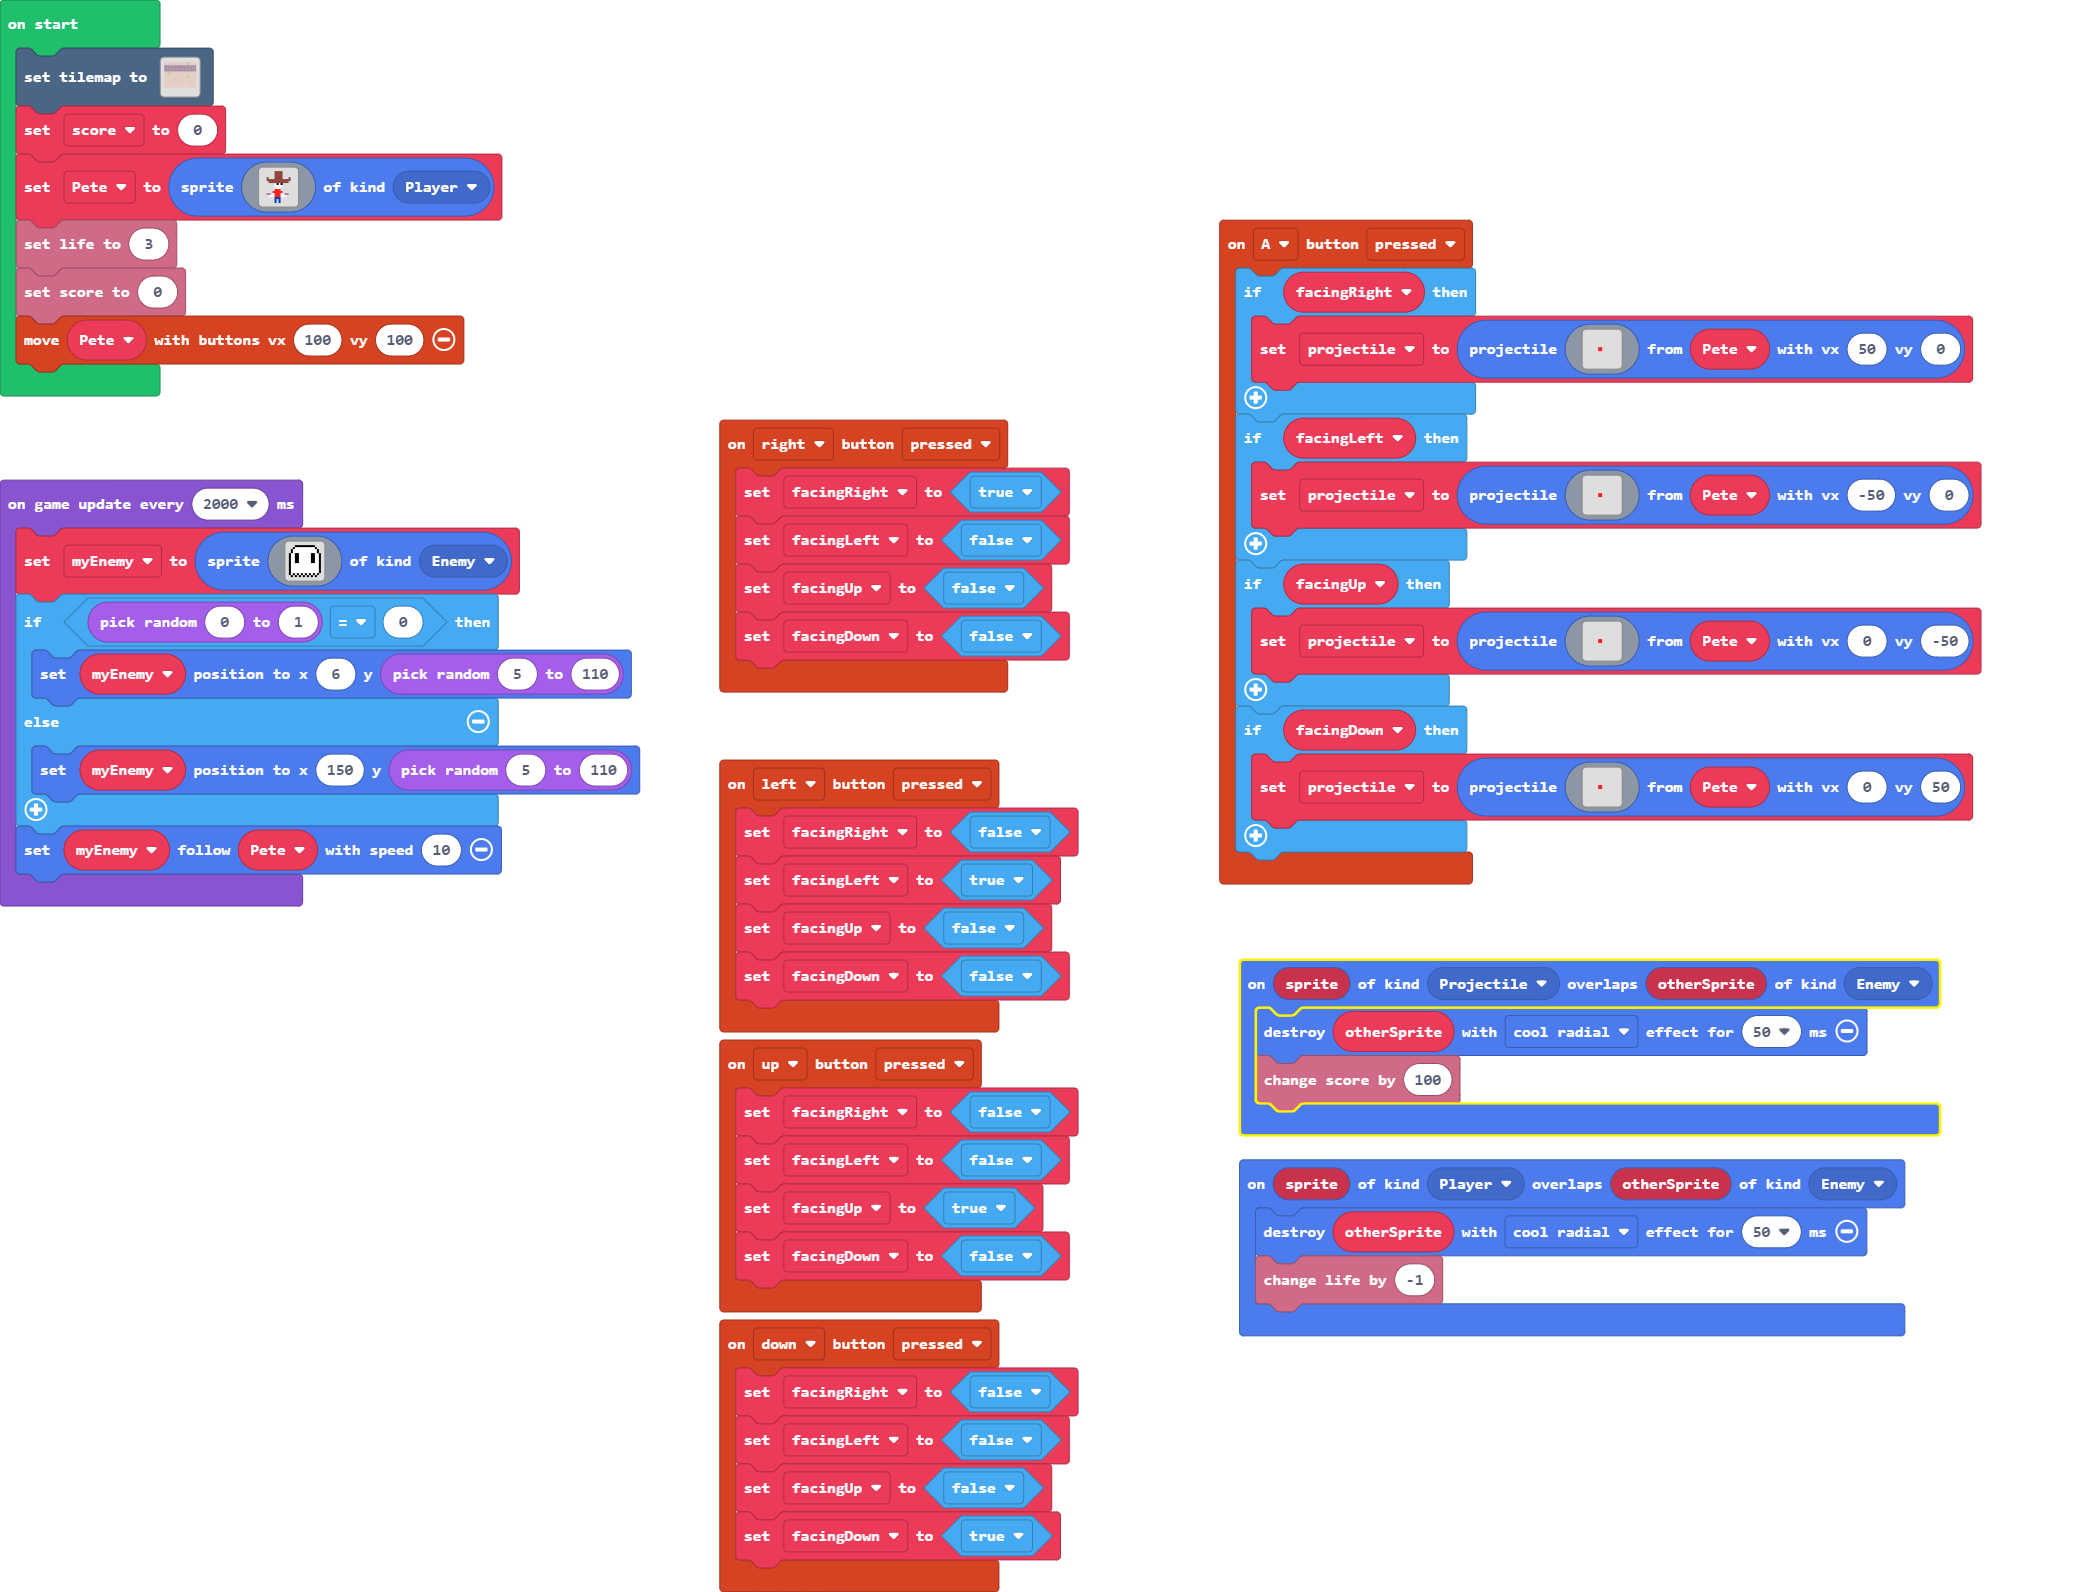
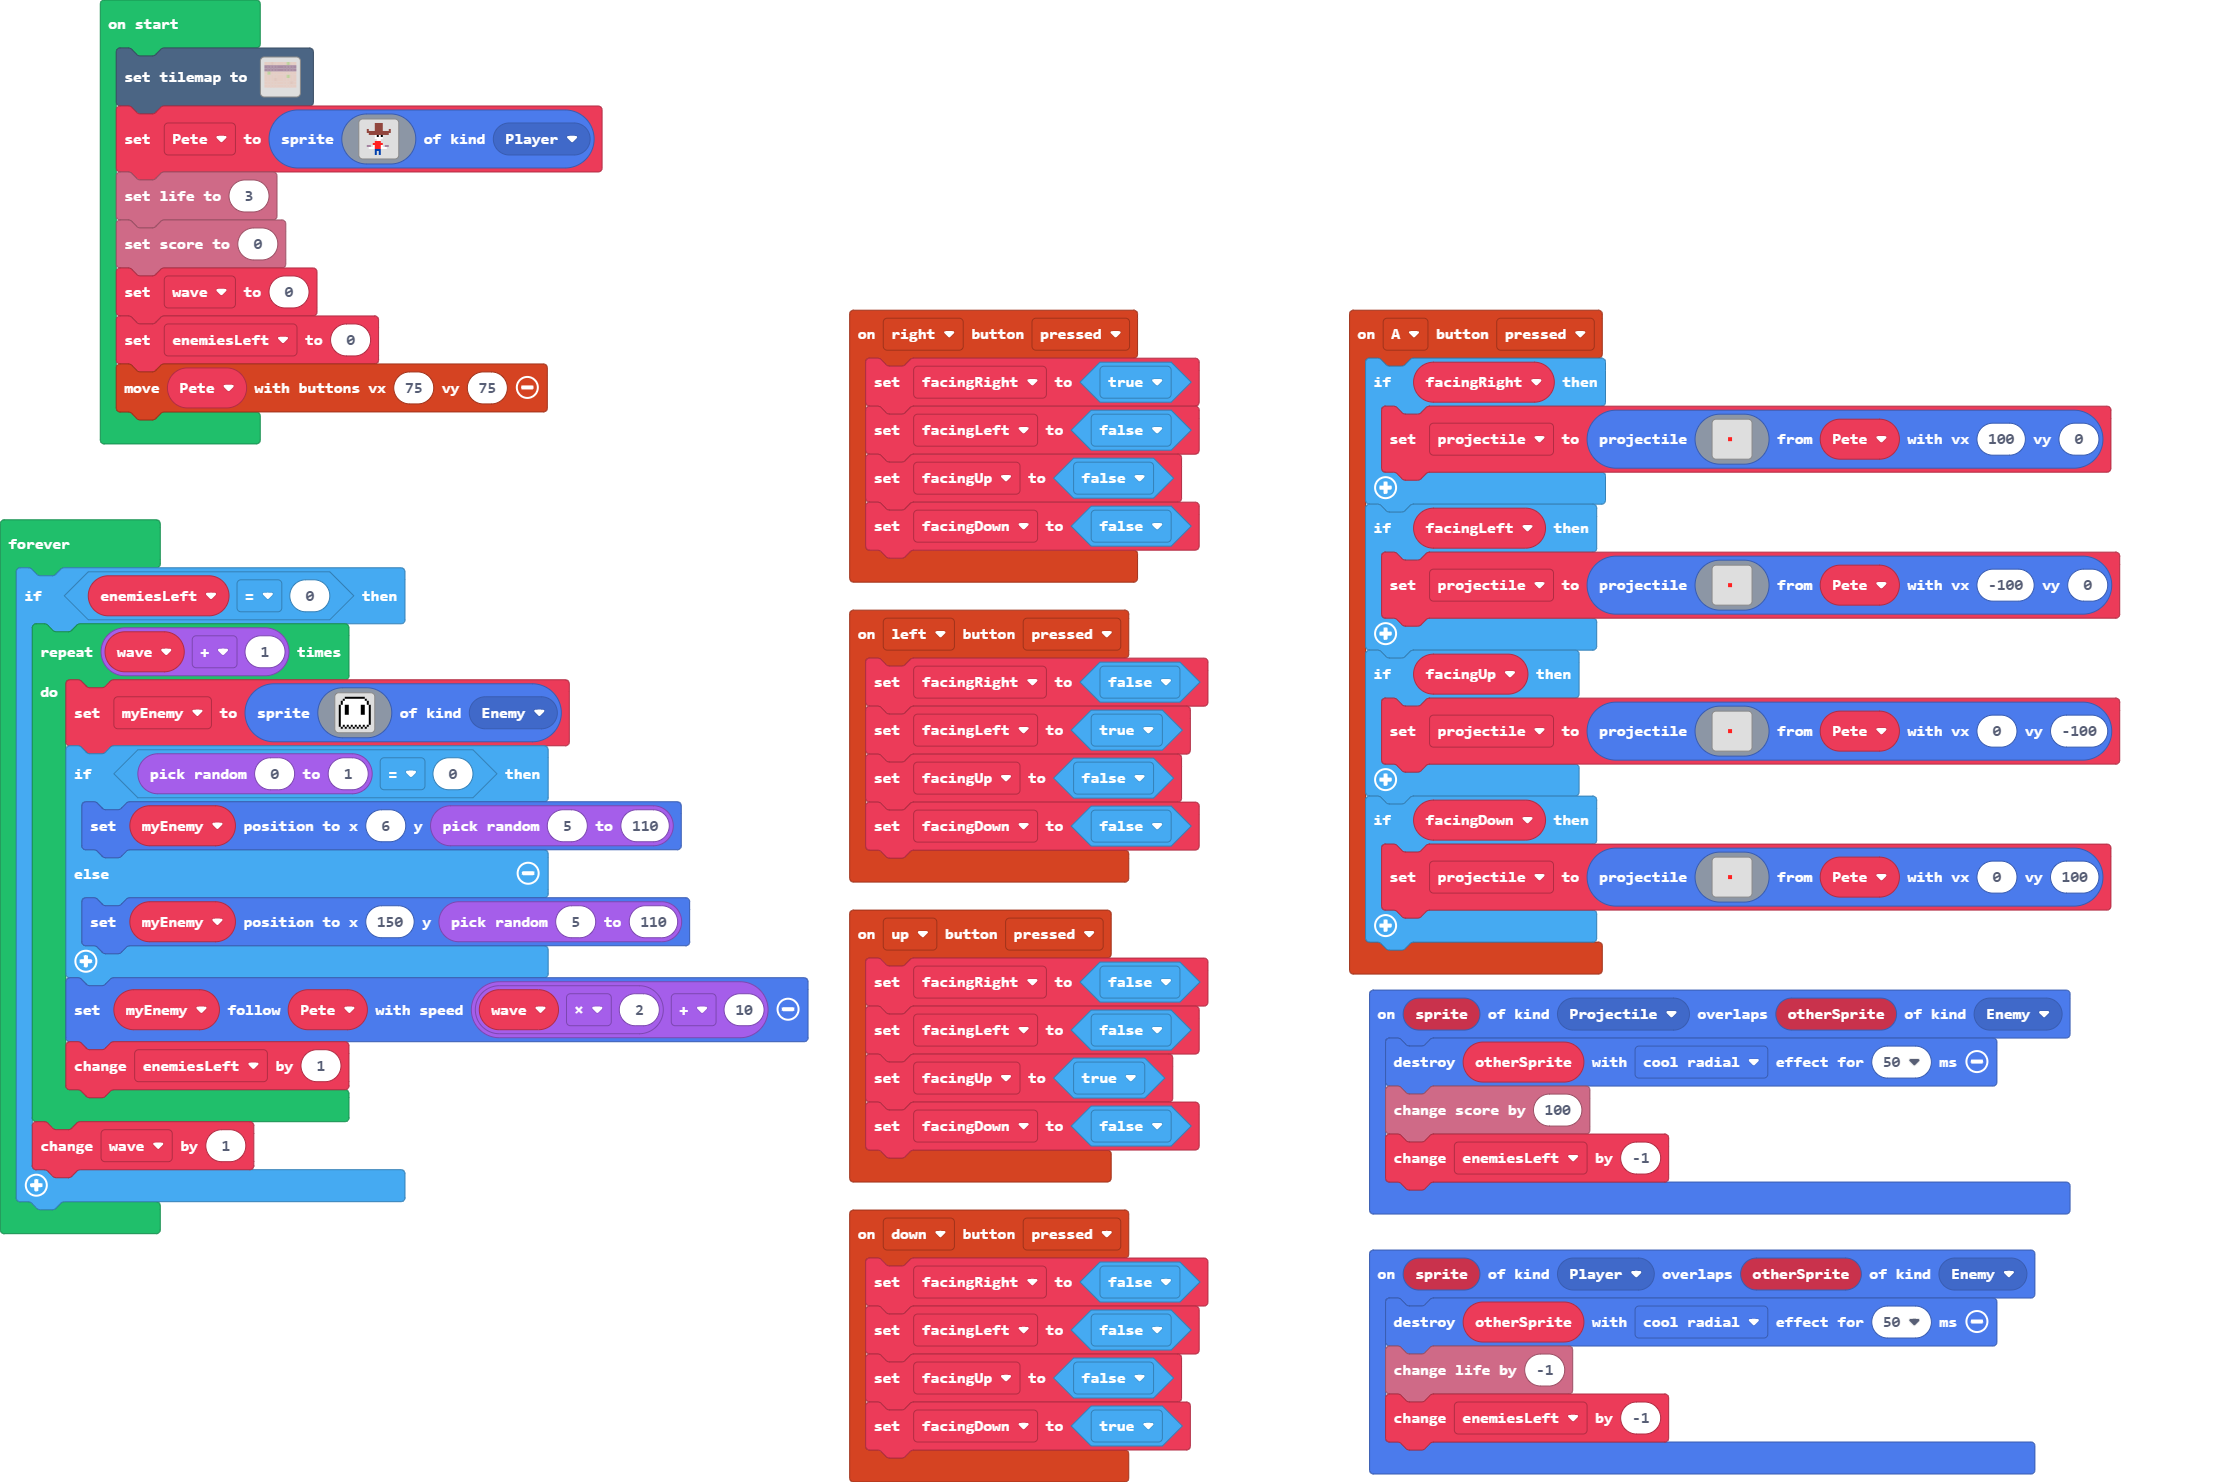
waves added

diff --git a/main.ts b/main.ts
@@ -6,16 +6,16 @@ controller.up.onEvent(ControllerButtonEvent.Pressed, function () {
 })
 controller.A.onEvent(ControllerButtonEvent.Pressed, function () {
     if (facingRight) {
-        projectile = sprites.createProjectileFromSprite(assets.image`bullet`, Pete, 50, 0)
+        projectile = sprites.createProjectileFromSprite(assets.image`bullet`, Pete, 100, 0)
     }
     if (facingLeft) {
-        projectile = sprites.createProjectileFromSprite(assets.image`bullet`, Pete, -50, 0)
+        projectile = sprites.createProjectileFromSprite(assets.image`bullet`, Pete, -100, 0)
     }
     if (facingUp) {
-        projectile = sprites.createProjectileFromSprite(assets.image`bullet`, Pete, 0, -50)
+        projectile = sprites.createProjectileFromSprite(assets.image`bullet`, Pete, 0, -100)
     }
     if (facingDown) {
-        projectile = sprites.createProjectileFromSprite(assets.image`bullet`, Pete, 0, 50)
+        projectile = sprites.createProjectileFromSprite(assets.image`bullet`, Pete, 0, 100)
     }
 })
 controller.left.onEvent(ControllerButtonEvent.Pressed, function () {
@@ -39,10 +39,12 @@ controller.down.onEvent(ControllerButtonEvent.Pressed, function () {
 sprites.onOverlap(SpriteKind.Projectile, SpriteKind.Enemy, function (sprite, otherSprite) {
     otherSprite.destroy(effects.coolRadial, 50)
     info.changeScoreBy(100)
+    enemiesLeft += -1
 })
 sprites.onOverlap(SpriteKind.Player, SpriteKind.Enemy, function (sprite, otherSprite) {
     otherSprite.destroy(effects.coolRadial, 50)
     info.changeLifeBy(-1)
+    enemiesLeft += -1
 })
 let myEnemy: Sprite = null
 let projectile: Sprite = null
@@ -52,17 +54,24 @@ let facingLeft = false
 let facingRight = false
 let Pete: Sprite = null
 tiles.setTilemap(tilemap`bg`)
-let score = 0
 Pete = sprites.create(assets.image`Pete`, SpriteKind.Player)
 info.setLife(3)
 info.setScore(0)
-controller.moveSprite(Pete, 100, 100)
-game.onUpdateInterval(2000, function () {
-    myEnemy = sprites.create(assets.image`myImage`, SpriteKind.Enemy)
-    if (randint(0, 1) == 0) {
-        myEnemy.setPosition(6, randint(5, 110))
-    } else {
-        myEnemy.setPosition(150, randint(5, 110))
+let wave = 0
+let enemiesLeft = 0
+controller.moveSprite(Pete, 75, 75)
+forever(function () {
+    if (enemiesLeft == 0) {
+        for (let index = 0; index < wave + 1; index++) {
+            myEnemy = sprites.create(assets.image`myImage`, SpriteKind.Enemy)
+            if (randint(0, 1) == 0) {
+                myEnemy.setPosition(6, randint(5, 110))
+            } else {
+                myEnemy.setPosition(150, randint(5, 110))
+            }
+            myEnemy.follow(Pete, wave * 2 + 10)
+            enemiesLeft += 1
+        }
+        wave += 1
     }
-    myEnemy.follow(Pete, 10)
 })
